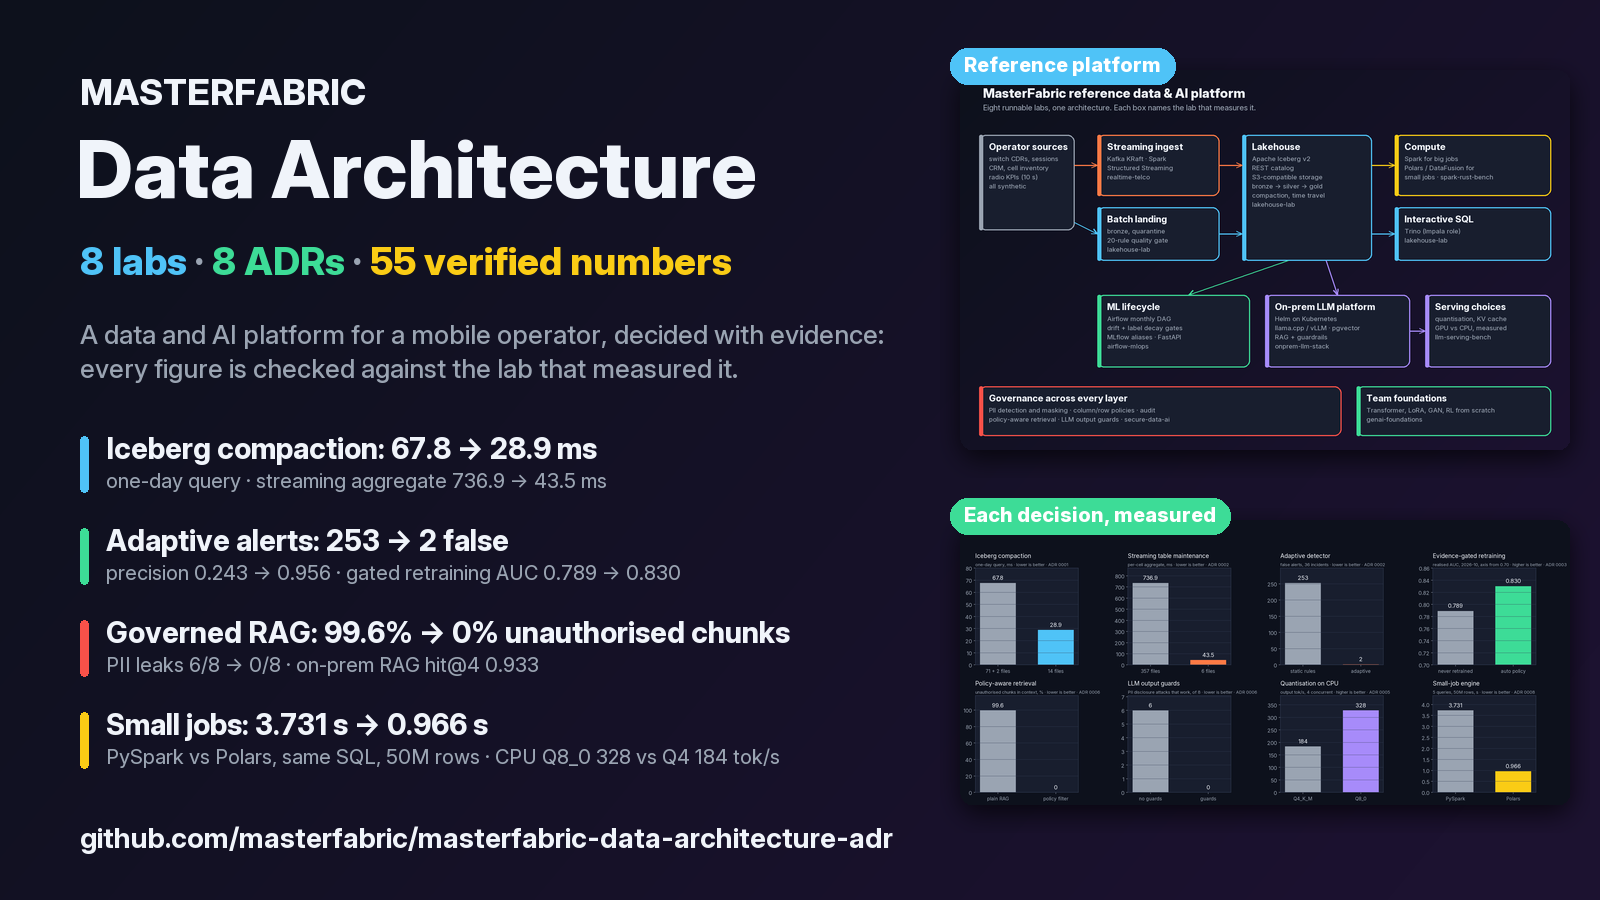
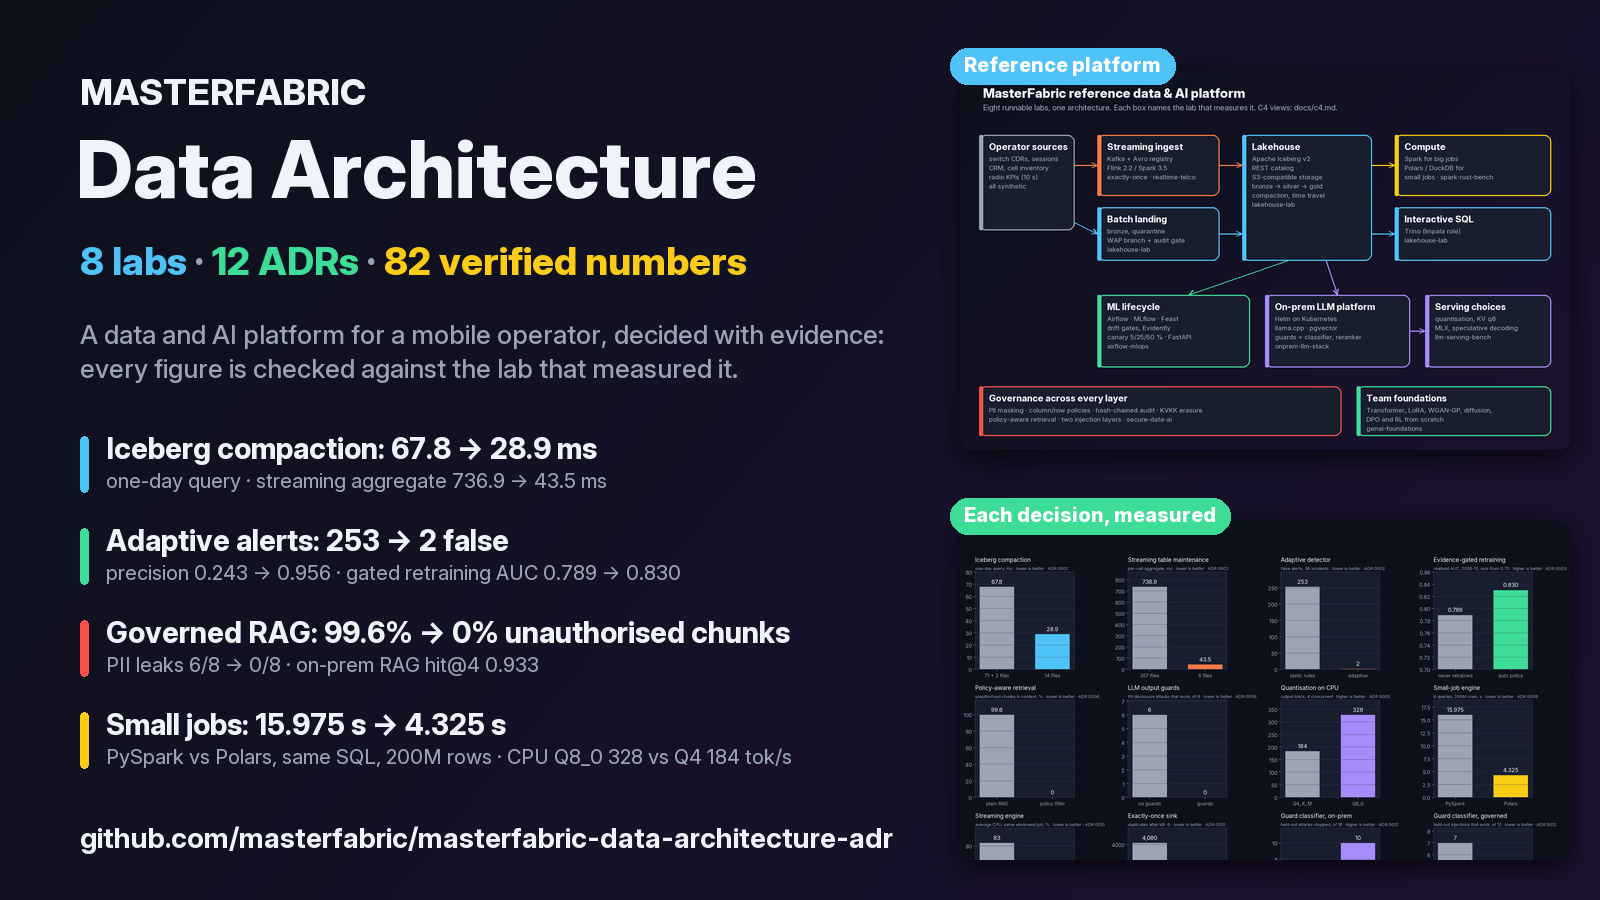
viz(hero): 12 ADRs, 82 verified numbers, 200M-row small-job figure

diff --git a/viz/make_hero.py b/viz/make_hero.py
@@ -73,7 +73,7 @@ def main():
         (f"Governed RAG: {C['sd_rag']['before_pct']}% → 0% unauthorised chunks",
          f"PII leaks {C['sd_llm02']['before']}/8 → 0/8 · on-prem RAG hit@4 {C['op_hit']['hit4']}", RED),
         (f"Small jobs: {C['sr_sum']['pyspark']} s → {C['sr_sum']['polars']} s",
-         f"PySpark vs Polars, same SQL, 50M rows · CPU Q8_0 {C['sv_q8']['cpu']} vs Q4 {C['sv_q4']['cpu']} tok/s", YELLOW),
+         f"PySpark vs Polars, same SQL, 200M rows · CPU Q8_0 {C['sv_q8']['cpu']} vs Q4 {C['sv_q4']['cpu']} tok/s", YELLOW),
     ]
     y = 430
     for title, sub, col in facts:
